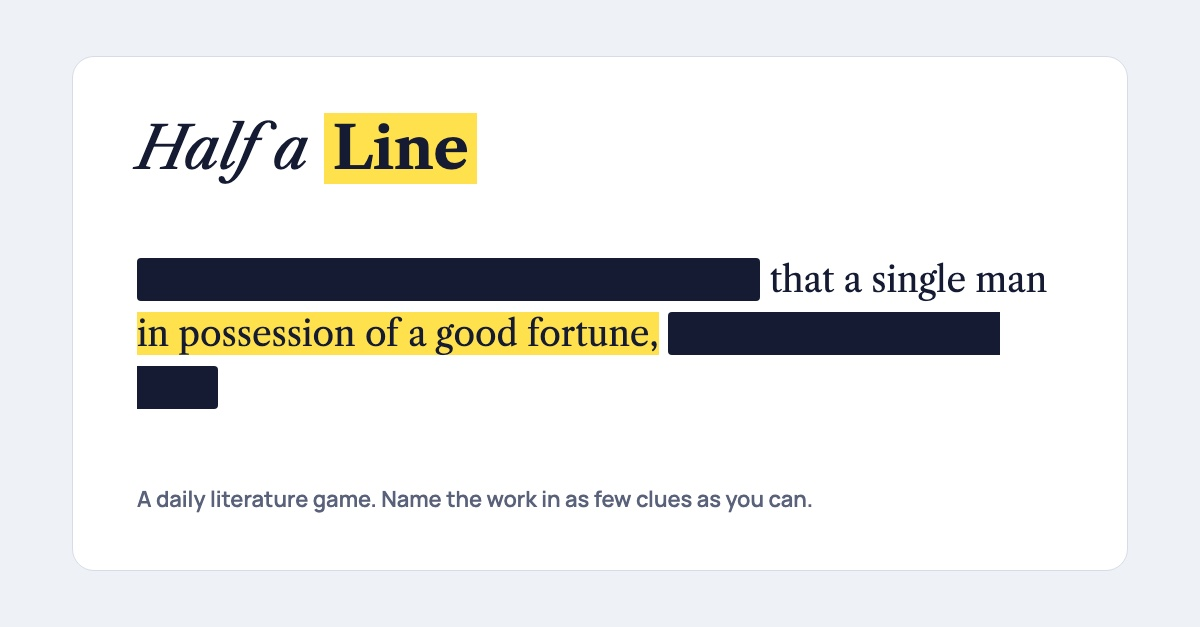
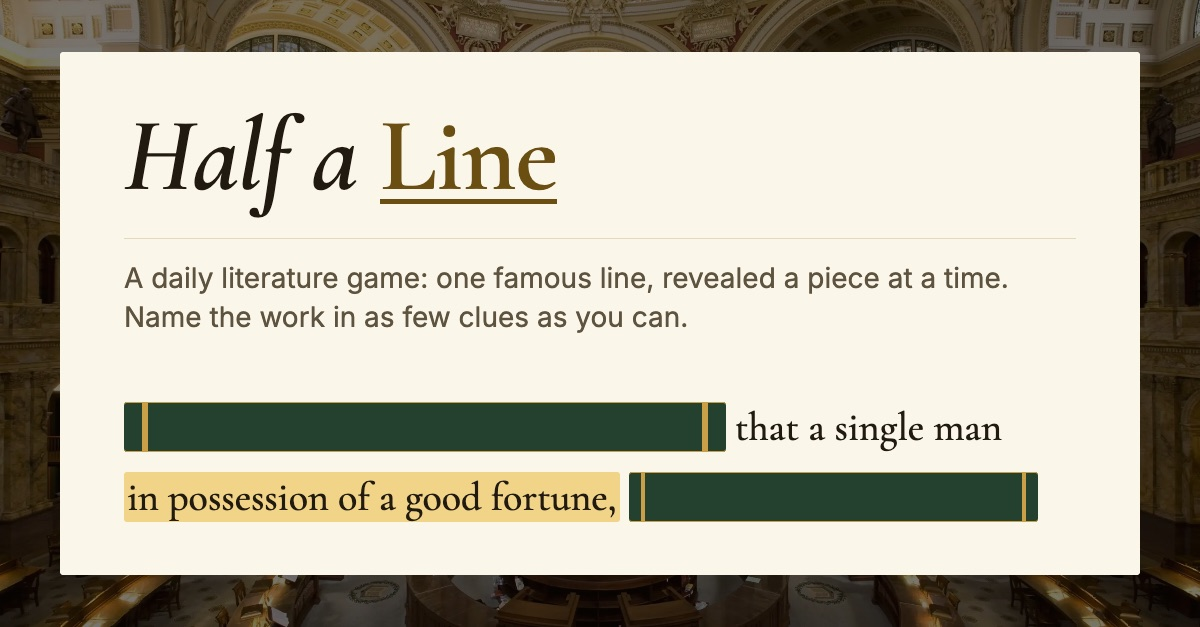
Share image: remake in the Library look (v=20261120)

diff --git a/docs/social-preview.html b/docs/social-preview.html
@@ -1,0 +1,25 @@
+<!doctype html>
+<html lang="en"><head><meta charset="utf-8"><title>Half a Line share image (source)</title>
+<!-- Source for site/social-preview.jpg. Serve from the repo root, open /docs/social-preview.html, screenshot the 1200x627 frame. -->
+<link rel="stylesheet" href="https://fonts.googleapis.com/css2?family=Cormorant+Garamond:ital,wght@0,500;0,600;1,500;1,600&family=Inter:wght@400;500;600&display=swap">
+<style>
+html,body{margin:0;padding:0;background:#15120C}
+.f{position:relative;width:1200px;height:627px;overflow:hidden;
+  background:linear-gradient(rgba(10,6,2,.55),rgba(10,6,2,.55)),url("../site/looks/library-desk2.webp") center/cover no-repeat,#15120C}
+.card{position:absolute;left:60px;top:52px;width:1080px;height:523px;box-sizing:border-box;background:#FBF6EA;border-radius:3px;color:#211A10;padding:52px 64px 0 64px}
+h1{margin:0;font:italic 600 104px/1 "Cormorant Garamond",serif;letter-spacing:-.01em}
+h1 b{font-style:normal;font-weight:600;color:#6B4F12;border-bottom:5px solid #6B4F12;line-height:.82;display:inline-block}
+.rule{height:1px;background:#E4D9BF;margin:30px 0 0}
+.desc{margin:20px 0 0;font:400 28px/1.4 "Inter",sans-serif;color:#5D533F;max-width:900px}
+.line{position:absolute;left:64px;right:64px;top:340px;font:500 40px/1.75 "Cormorant Garamond",serif;color:#211A10}
+.part{padding:.02em .08em;border-radius:3px;-webkit-box-decoration-break:clone;box-decoration-break:clone}
+.hid{color:transparent;background:linear-gradient(90deg,rgba(0,0,0,0) 3%,#C9A048 3%,#C9A048 4%,rgba(0,0,0,0) 4%,rgba(0,0,0,0) 96%,#C9A048 96%,#C9A048 97%,rgba(0,0,0,0) 97%),#24402F;box-shadow:inset 0 1px 0 #C9A048,inset 0 -1px 0 #C9A048}
+.fresh{background:#F1D488;color:#211A10}
+</style></head><body>
+<div class="f"><div class="card">
+<h1>Half a <b>Line</b></h1>
+<div class="rule"></div>
+<p class="desc">A daily literature game: one famous line, revealed a piece at a time. Name the work in as few clues as you can.</p>
+<div class="line"><span class="part hid">It is a truth universally acknowledged,</span> that a single man<br><span class="part fresh">in possession of a good fortune,</span> <span class="part hid">must be in want of a wife.</span></div>
+</div></div>
+</body></html>

diff --git a/site/index.html b/site/index.html
@@ -11,14 +11,14 @@
 <meta property="og:title" content="Half a Line">
 <meta property="og:description" content="A daily literature game: one famous line, revealed a piece at a time. Name the work in as few clues as you can.">
 <meta property="og:url" content="https://halfaline.andrewcao.org/">
-<meta property="og:image" content="https://halfaline.andrewcao.org/social-preview.jpg?v=20261118b">
+<meta property="og:image" content="https://halfaline.andrewcao.org/social-preview.jpg?v=20261120">
 <meta property="og:image:width" content="1200">
 <meta property="og:image:height" content="627">
 <meta property="og:image:alt" content="Half a Line: a famous line with some pieces hidden under dark bars and the newest piece highlighted in yellow.">
 <meta name="twitter:card" content="summary_large_image">
 <meta name="twitter:title" content="Half a Line">
 <meta name="twitter:description" content="A daily literature game: one famous line, revealed a piece at a time. Name the work in as few clues as you can.">
-<meta name="twitter:image" content="https://halfaline.andrewcao.org/social-preview.jpg?v=20261118b">
+<meta name="twitter:image" content="https://halfaline.andrewcao.org/social-preview.jpg?v=20261120">
 <meta name="twitter:image:alt" content="Half a Line: a famous line with some pieces hidden under dark bars and the newest piece highlighted in yellow.">
 <meta name="color-scheme" content="light dark">
 <link rel="icon" href="favicon.svg" type="image/svg+xml">

diff --git a/HANDOFF.md b/HANDOFF.md
@@ -4,6 +4,7 @@
 Live since 18 November 2026 at https://halfaline.andrewcao.org/ (moved from https://acao-boop.github.io/half-a-line/, which forwards) (tag `published`), and hung third on the andrewcao.org wall (acao-boop/enoch#54). Day 1 is 18 November 2026 (Pride and Prejudice). 60 lines run to 16 January 2027.
 
 ## Last change
+- 2026-11-20 (Andrew approved: remake the link-preview image in the Library look; branch `claude/share-preview-library-a31df4`, not merged or published): new `site/social-preview.jpg` (1200 × 627, 129 KB; was 78 KB): Library photo under the dark veil, solid paper card with the italic title and underlined "Line", the og:description verbatim, and day 1's clue pieces (leather-spine bars, highlighted "in possession of a good fortune,"). Source: `docs/social-preview.html` (rendered with headless Chrome). `?v=` on og:image and twitter:image in `site/index.html` is now 20261120. The og:image:alt text is unchanged and still describes dark bars and a yellow highlight. Checked: 400 px downscale reads (title, line, description). Before/after: `docs/mockups/shots/m-share-image-before-after.jpg`. After publishing, rerun LinkedIn Post Inspector.
 - 2026-11-20 (Andrew: "Yes, fix those four", from `docs/fable-audit-2026-11.md`): day 12 hint now says the scenes are "carved" on the vase, not "painted" (Keats's urn is marble); published, lines.js v=11. The other three (notes for days 70, 93, 112) are a pull request into `claude/lines-061-151`. The review sheet row for day 12 has not been updated.
 - 2026-11-20 (Andrew: "Build all six" from `docs/fable-audit-2026-11.md`; merged as acao-boop/half-a-line#1 and published 20 Nov on Andrew's "Yes, publish"; live files match by SHA-256; tag `published`): (1) a finished line shows the work as a title page (result once in small type, title in the look's serif, author and year, speaker); the top row no longer repeats the result; pieces still hidden when the line is finished lift one at a time and the title arrives after them (skipped with reduced motion). (2) Archive is a ruled list: a finished day shows the line's opening and the work, any other day stays as clue pieces. (3) First visit: "How to play" is one plain sentence under the guess box (no box, no button; it goes after the first guess or clue) and the top row stays on one line with a short date ("Fri, Nov 20"); on a 375 × 812 phone today's guess box ends at 662 px and its buttons at 717 (was 924). (4) Day 45 also accepts "Meditation XVII" (new title in the list); fair answers for days 61–151 are listed in the audit for the lines branch. (5) Share box: one button and two plain links. (6) Stats: a plain 0 instead of an empty box. Assets v=10. Checked locally: phone 375 and desktop; Library dark, Coast light, Night with easy mode; first visit, wrong guess, win with the lift, loss, bonus, Archive (solved, in progress, missed), Stats; Tab reaches the choices with a focus ring; no console errors; no sideways scroll; check-lines 0 problems; contrast check passes. Not checked: reduced motion in a browser (code path only), High contrast look, the phone share sheet.
 - 2026-11-20 (Andrew: "Yes, find two"; then via the coordinator, "finish and get it live"): paintings for the two later themes in `claude/lines-061-151`: "Childhood" → Winslow Homer, *Snap the Whip* (1872); "Around the world" → Hokusai, *The Great Wave* (about 1830–32). Both Met CC0, picked by Claude as the recommended options (backups in `docs/painting-of-the-week.md`). `site/weeks.js` now has 10 weeks (weeks.js v=2); `site/weeks/childhood.webp` 20 KB, `world.webp` 46 KB. New `docs/for-andrew-to-read.md` lists every Claude-written wording under Andrew's name not yet read by him (looks and Settings copy, About credits, all 10 painting captions). Checked: a pretend Childhood day (Coast) and Around-the-world day (Library) show their plates; an unthemed day shows none; contrast 560 pairs ≥ 4.5:1; check-lines 0 problems.
